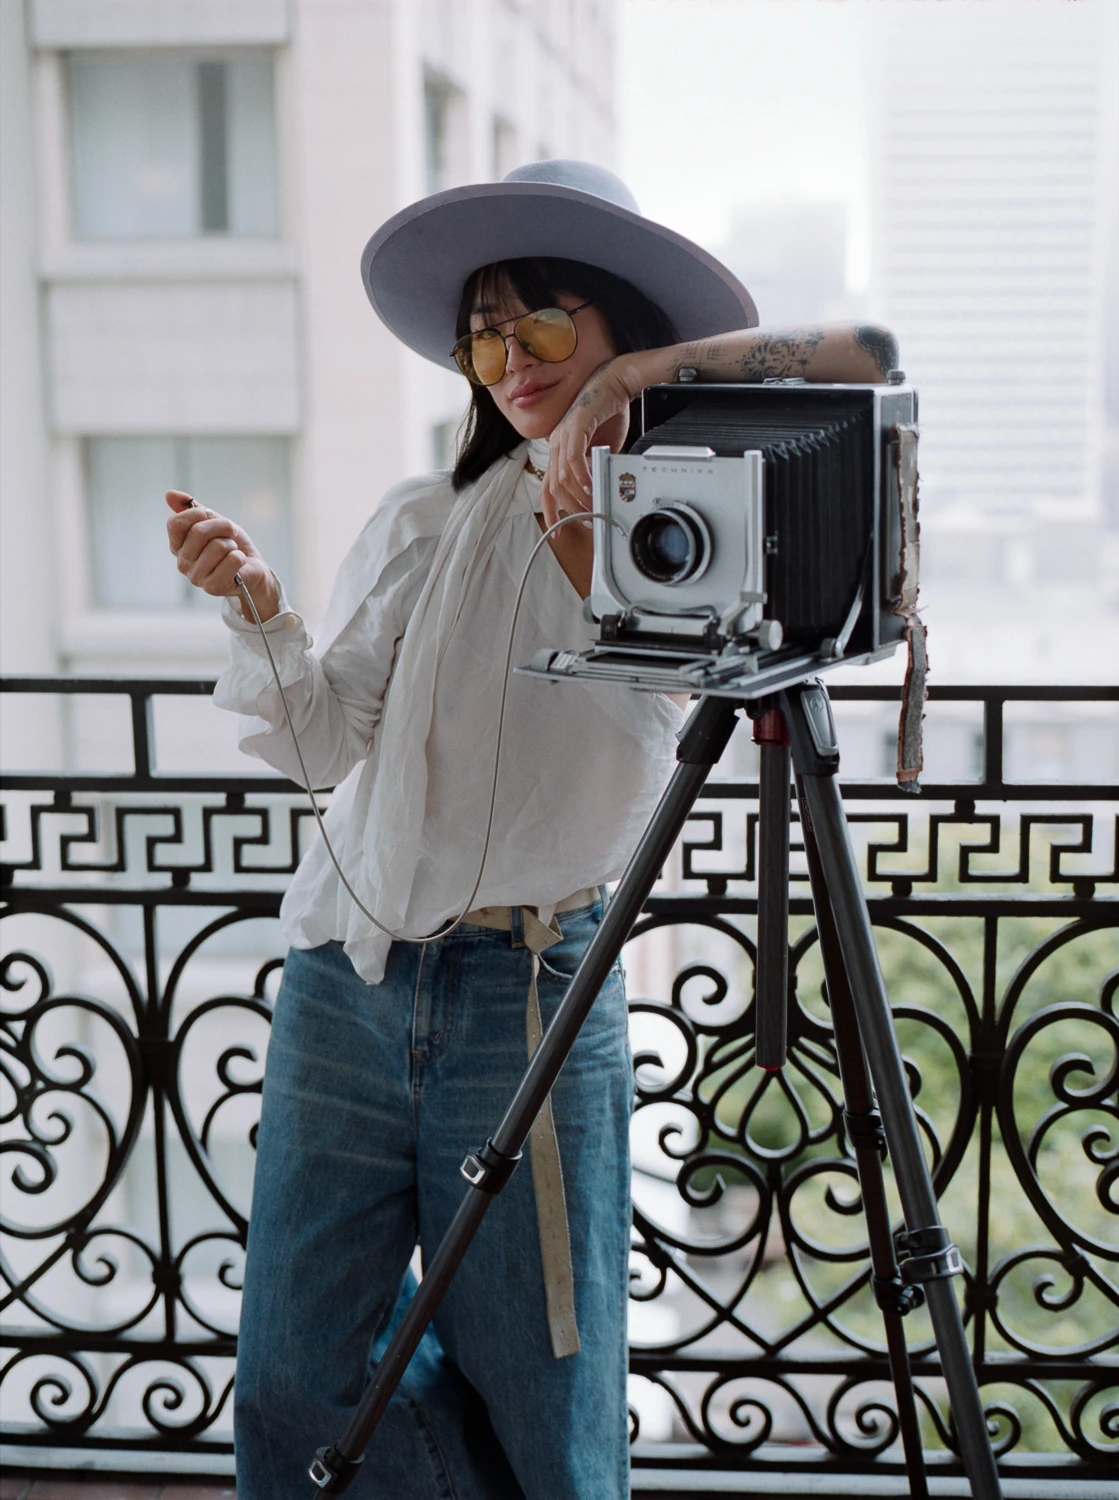
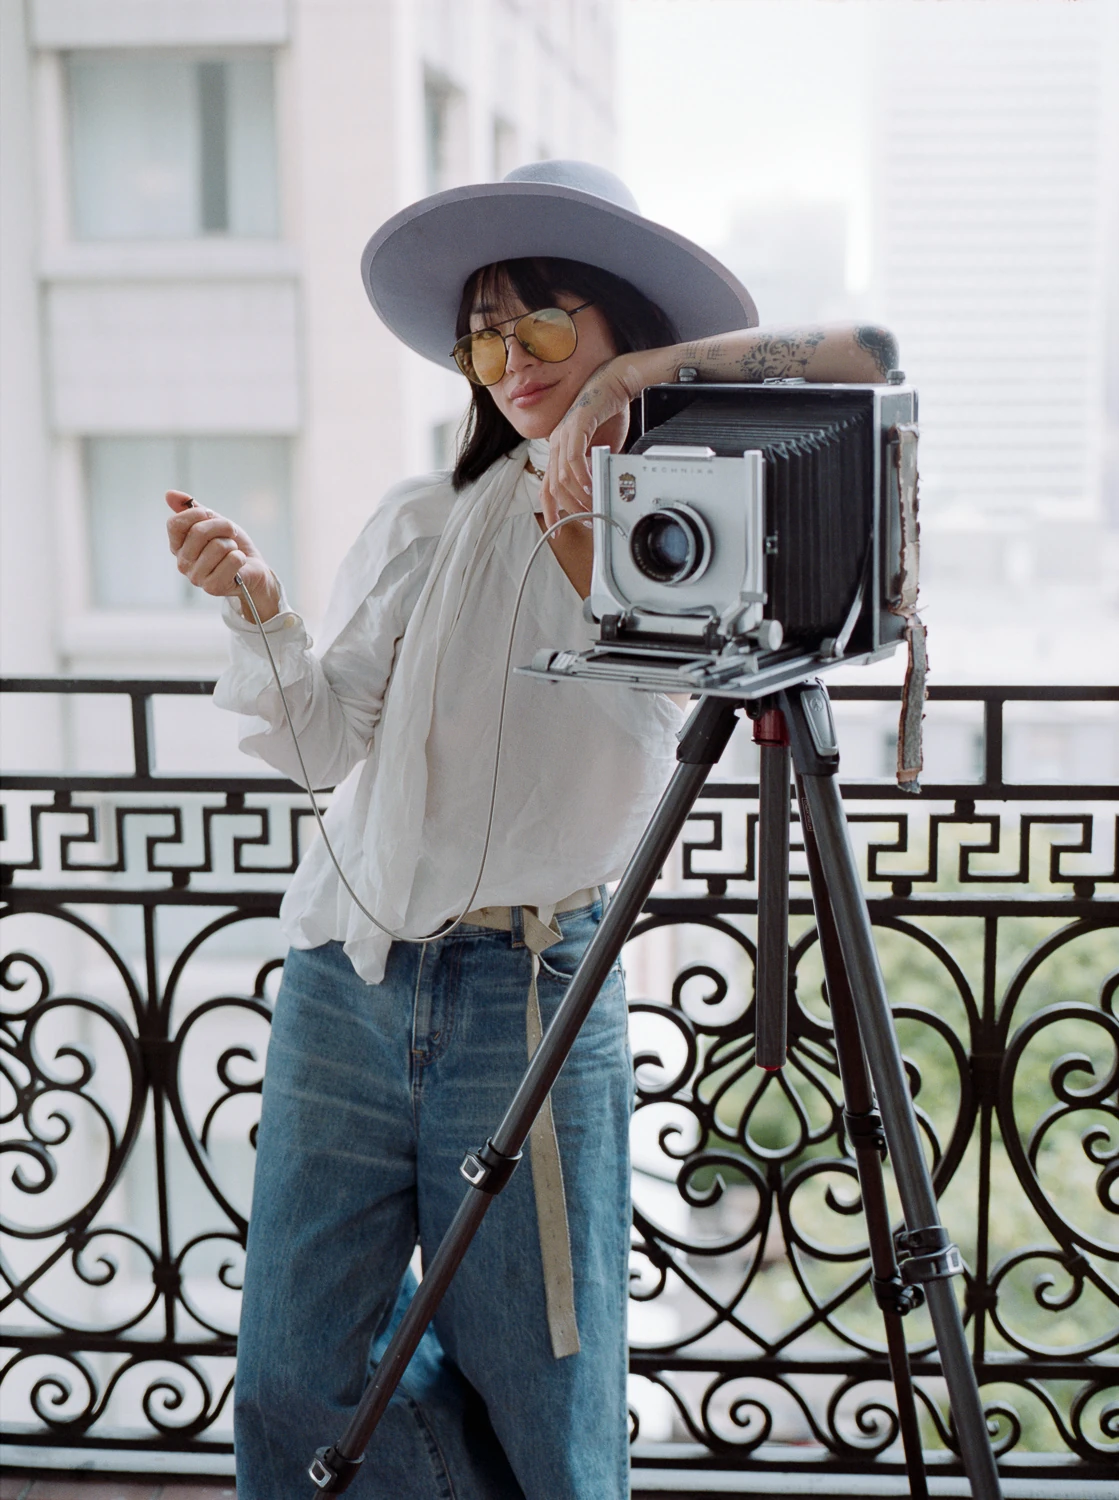
New street photo, homepage colors

diff --git a/assets/css/main.scss b/assets/css/main.scss
@@ -183,15 +183,23 @@ h2#gallery {
 
 .film {
   width: 90vw;
-  margin: 0 auto;
+  padding: 0 5vw;
   h2 {
     text-align: center;
+  }
+  h4 {
+    margin: 0;
+    padding: 10px 0;
   }
   a {
     font-weight: 600;
   }
   p {
     max-width: Min(100%, 40rem);
+  }
+  &.index:nth-child(even) {
+    color: white;
+    background-color: black;
   }
 }
 
@@ -402,7 +410,7 @@ h2#gallery {
   top: 0;
   height: 100vh;
   width: 100vw;
-  background-color: rgba(0,0,0, 0.5);
+  background-color: rgba(0,0,0, 0.85);
   z-index: 80;
 
   &.active {

diff --git a/_includes/navbar.html b/_includes/navbar.html
@@ -1,11 +1,5 @@
 <div id="navbar">
 
-  {% unless include.hide_backarrow %}
-    <i class="back-arrow-icon"></i>
-    <a class="back-arrow" href="..">
-    </a>
-  {% endunless %}
-
   {% assign namesplit = page.name | split: '.' %}
   {% assign pagename = namesplit[0] %}
 

diff --git a/index.md b/index.md
@@ -8,13 +8,13 @@ navbar-order: 0
 
 {% assign series_sorted = site.film | sort: 'order' %}
 
-<div class="film">
 {% for gallery in series_sorted %}
   {% if gallery.role != "feature" %}
     {% continue %}
   {% endif %}
 
-  <h3>{{ gallery.title }}</h3>
+<div class="film index">
+  <h4>{{ gallery.title }}</h4>
   {{ gallery.content }}
-{% endfor %}
 </div>
+{% endfor %}

diff --git a/_film/2022-12-28-street.md b/_film/2022-12-28-street.md
@@ -2,7 +2,7 @@
 role: feature
 layout: gallery
 order: 0
-n_photos: 6
+n_photos: 7
 key_photo: 1
 title: Street
 row_height: 800
